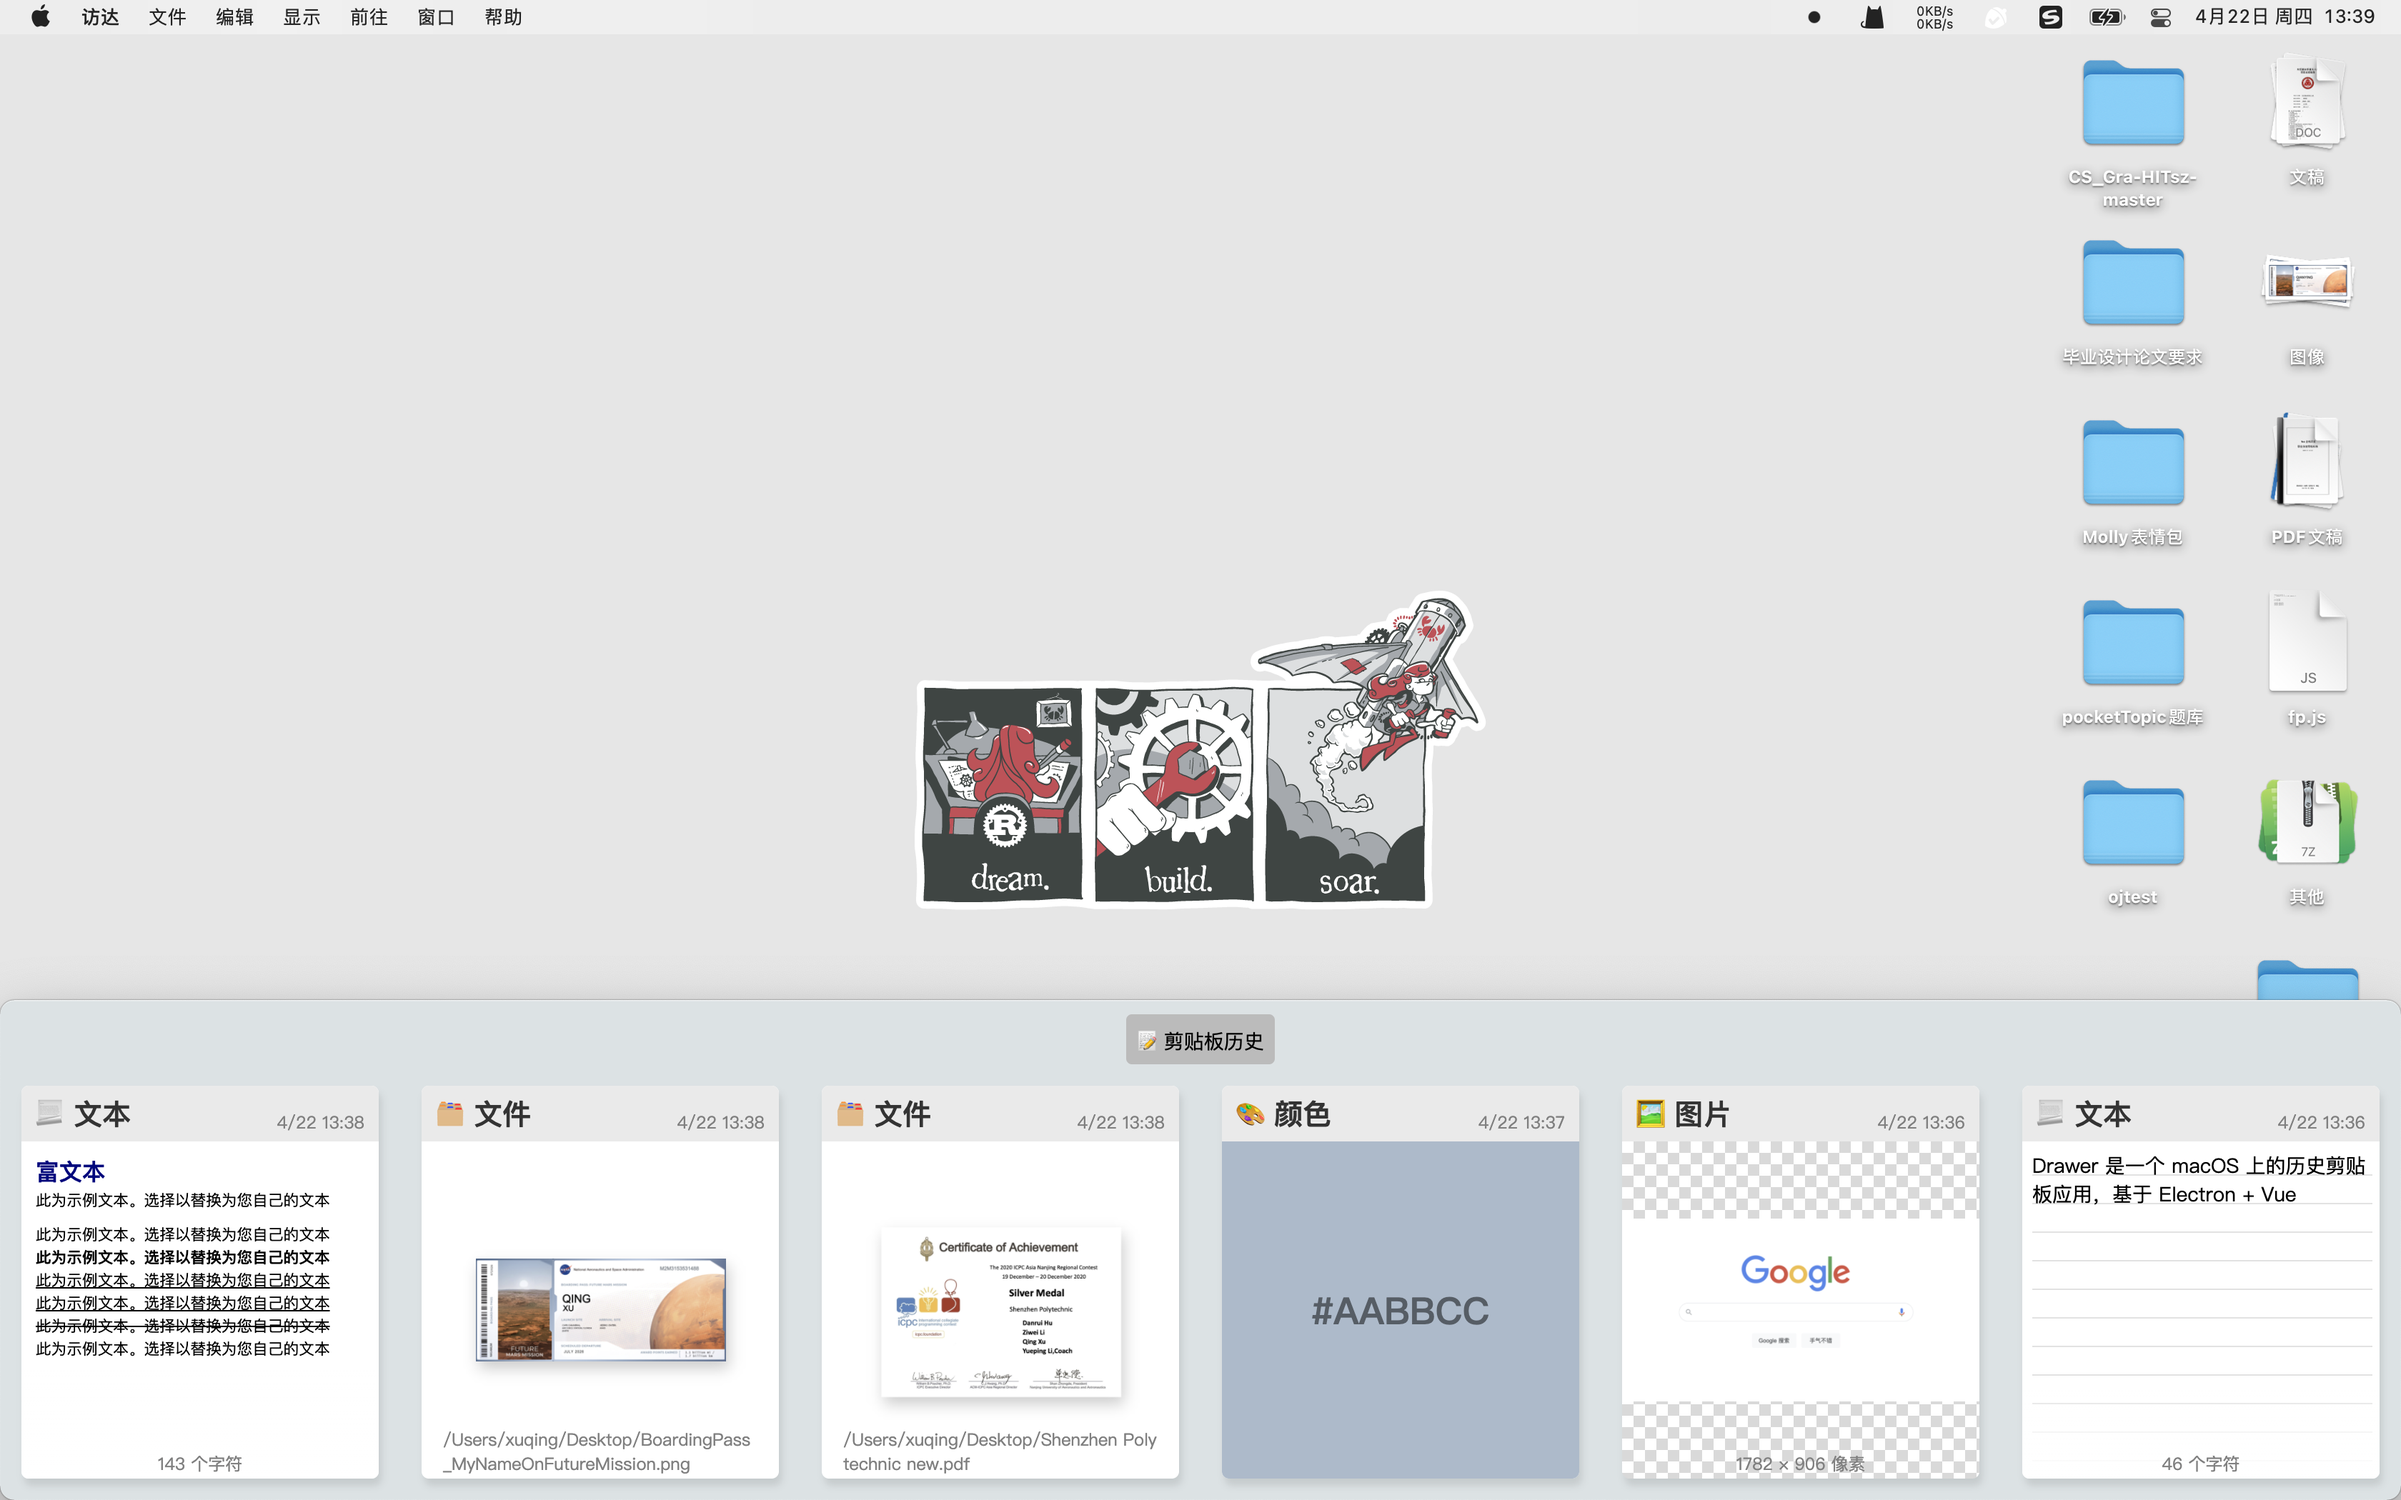
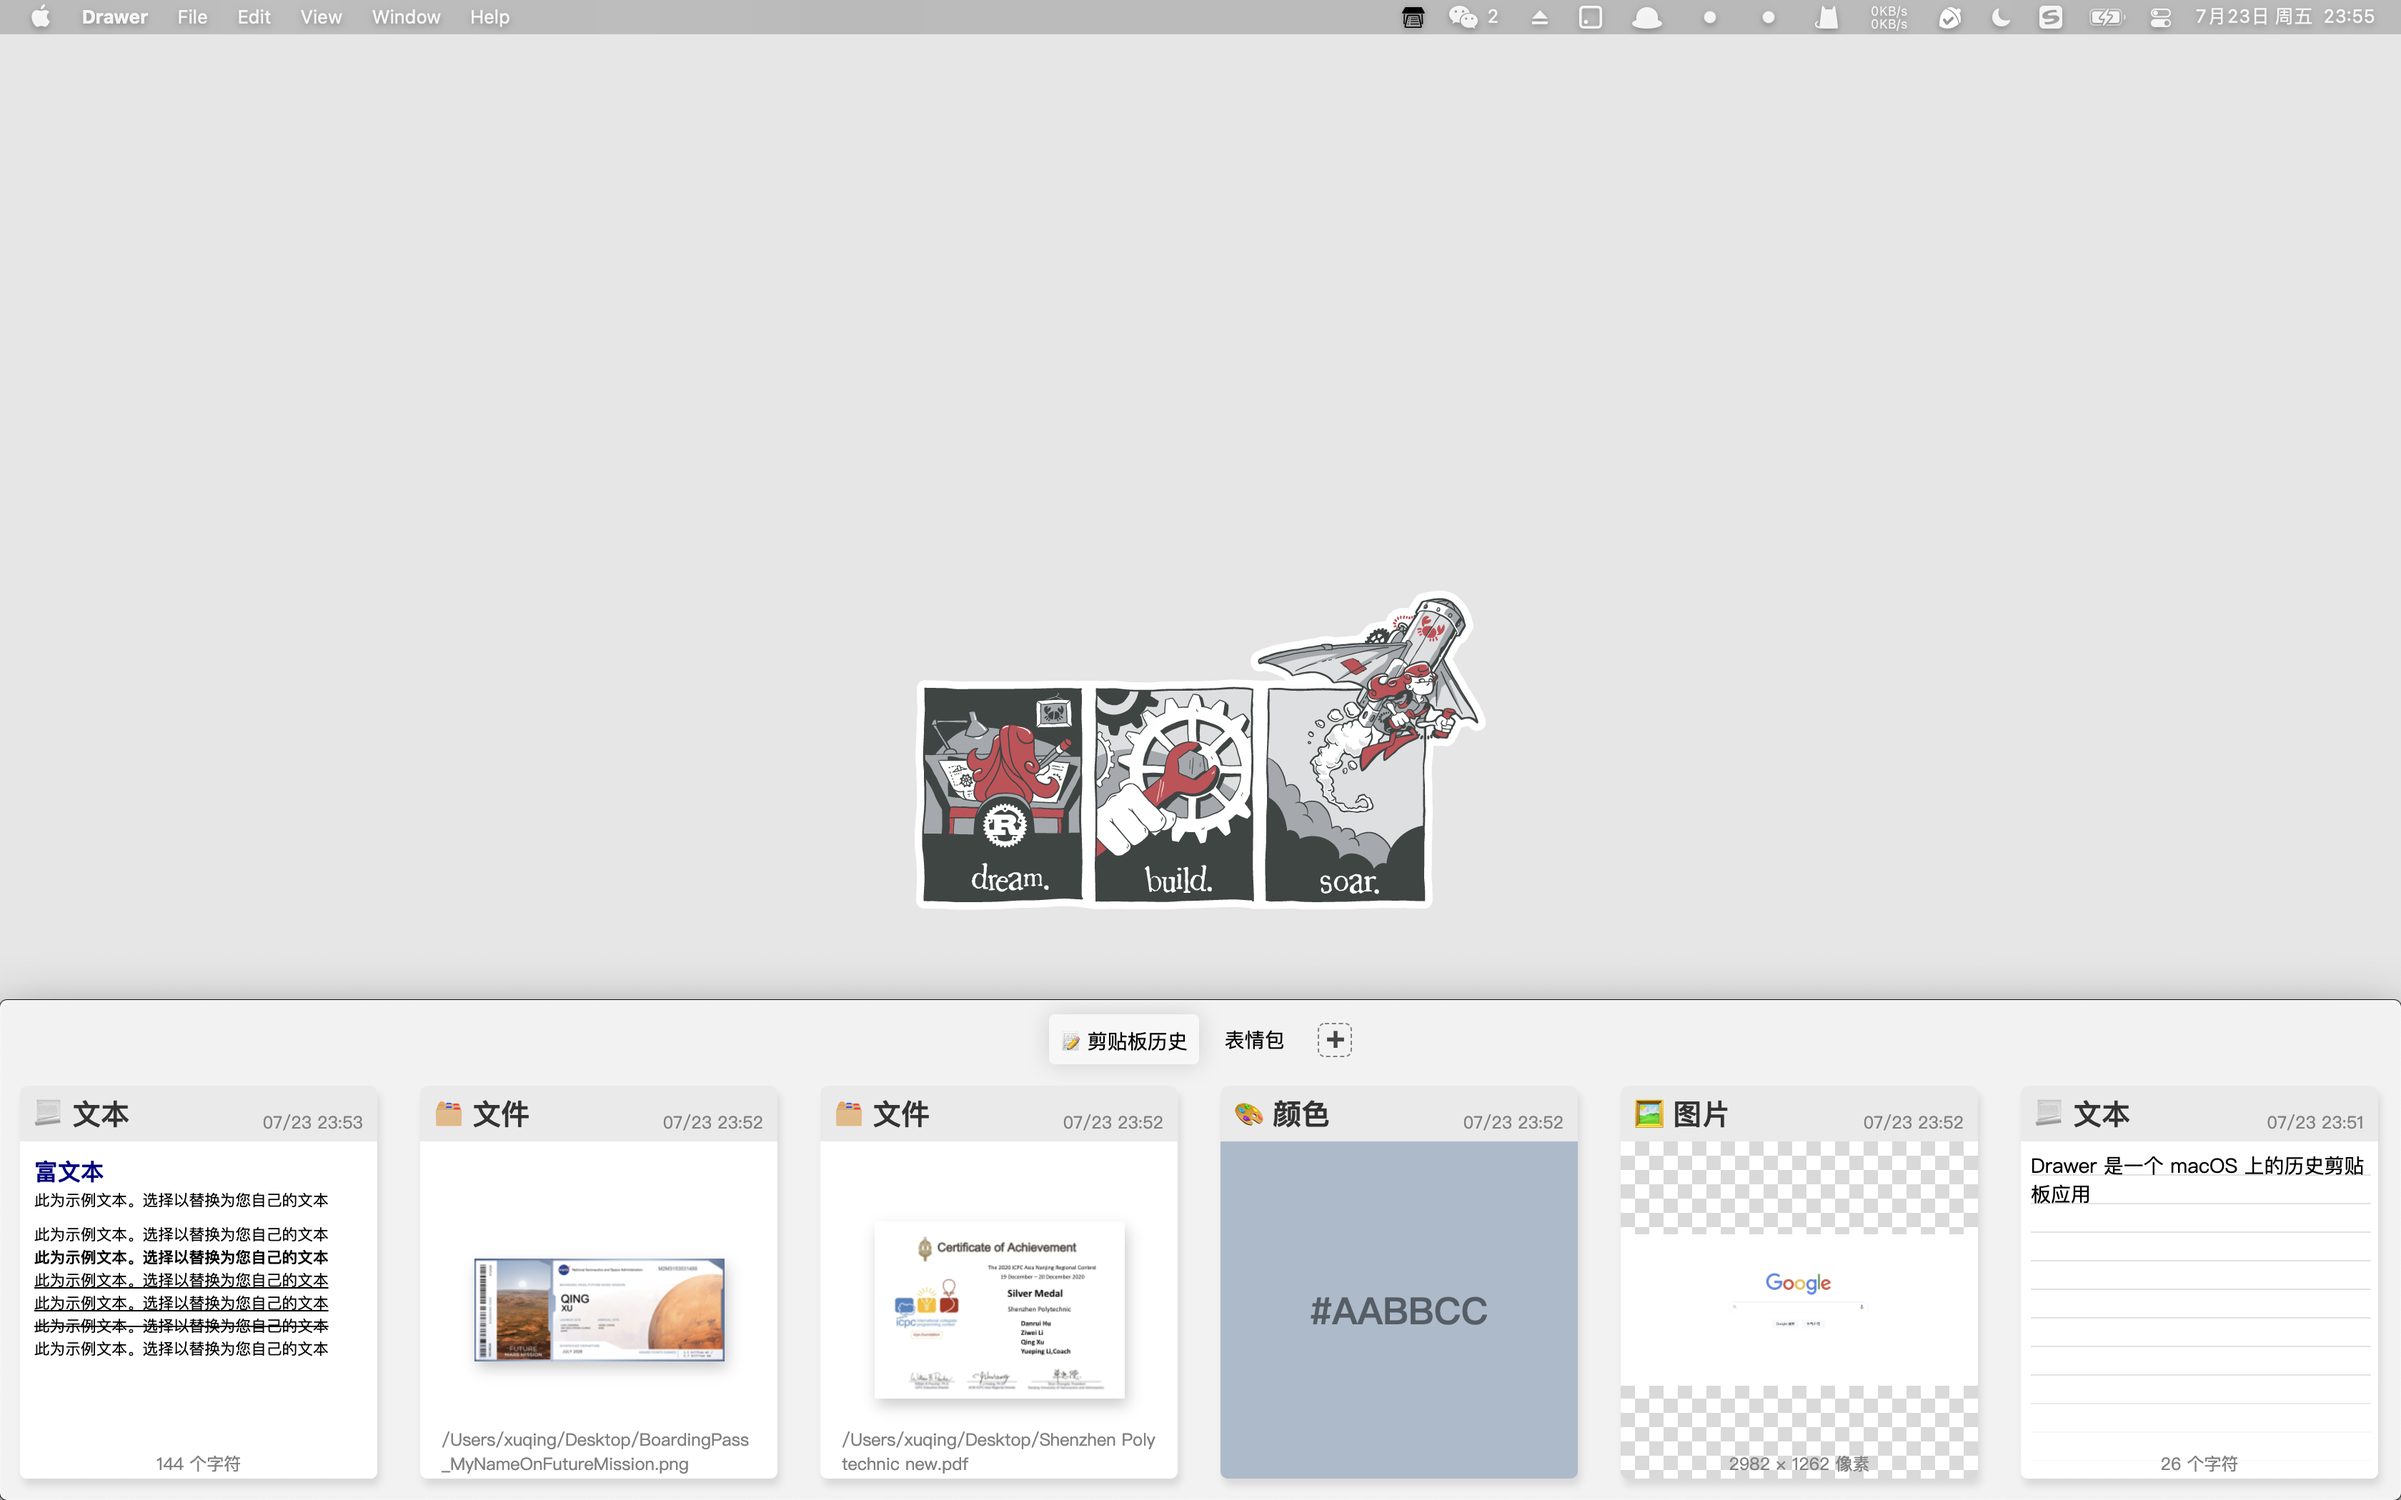
🔖 [tag] 0.1.6

diff --git a/README.md b/README.md
@@ -1,16 +1,12 @@
 # Drawer
+
 <div align=center><img width="150" height="150" src="./build/icons/icon_512x512.png"/></div>
 <br/>
 
-Drawer 是一个 macOS 上的历史剪贴板应用，基于 Electron + Vue
+Drawer 是一个 macOS 上的历史剪贴板应用，基于 Electron + Vue，支持多种类型数据及标签收藏等功能
 
-- 使用 <kbd>⇧</kbd> + <kbd>⌘</kbd> + <kbd>V</kbd> 呼出 Drawer 窗口
+- 使用 <kbd>⇧</kbd> + <kbd>⌘</kbd> + <kbd>V</kbd> 呼出 Drawer 窗口，再按一次可隐藏
 - 双击相应卡片进行复制
 
-![img-1](./img/img-1.png)
-
-## TODO
-- [ ] 搜索
-- [ ] 网页链接
-- [ ] 配置
-- [ ] 夜间模式
+![preview-1](./img/img-1.png)
+![preview-2](./img/img-2.png)
